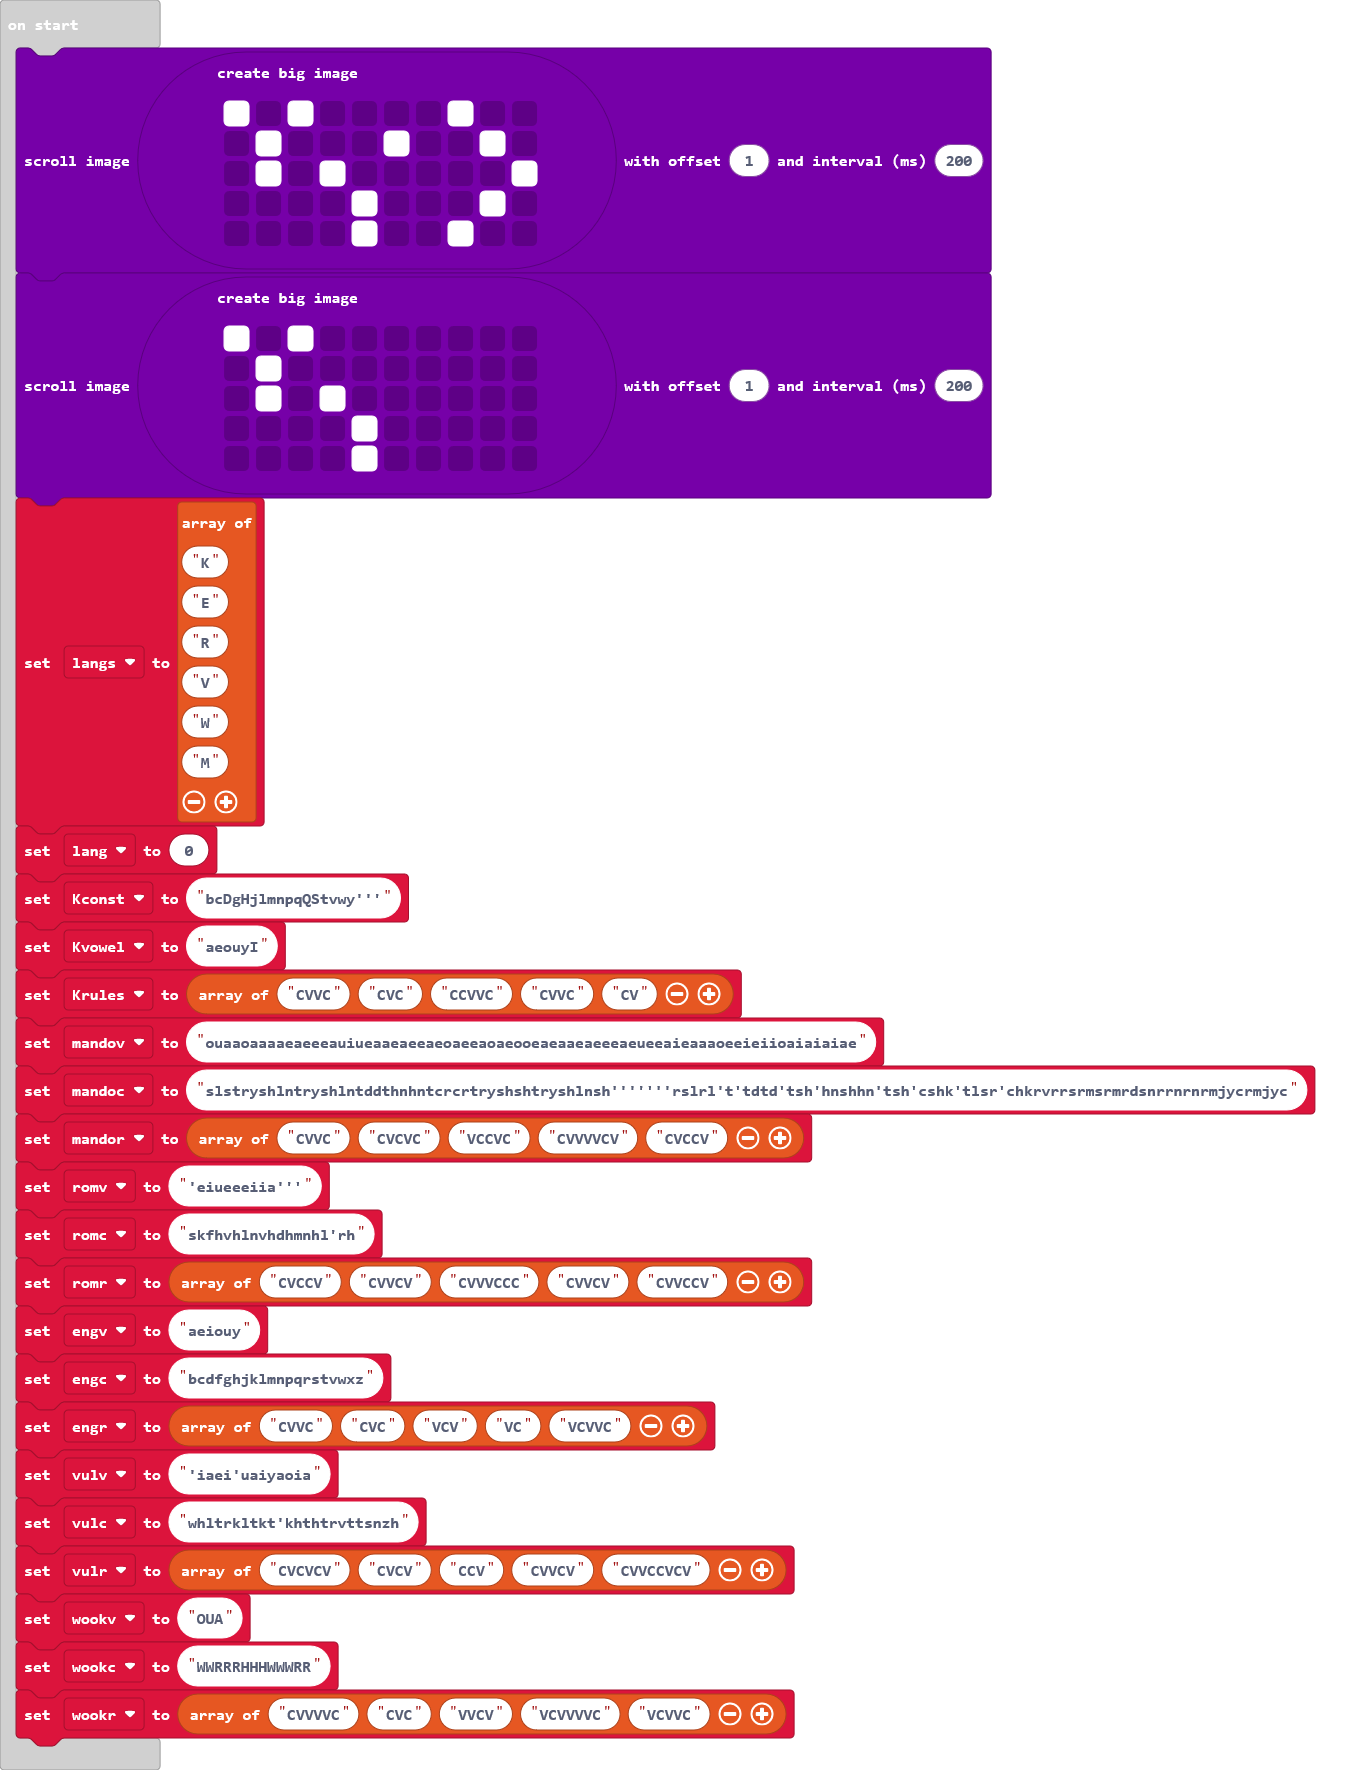
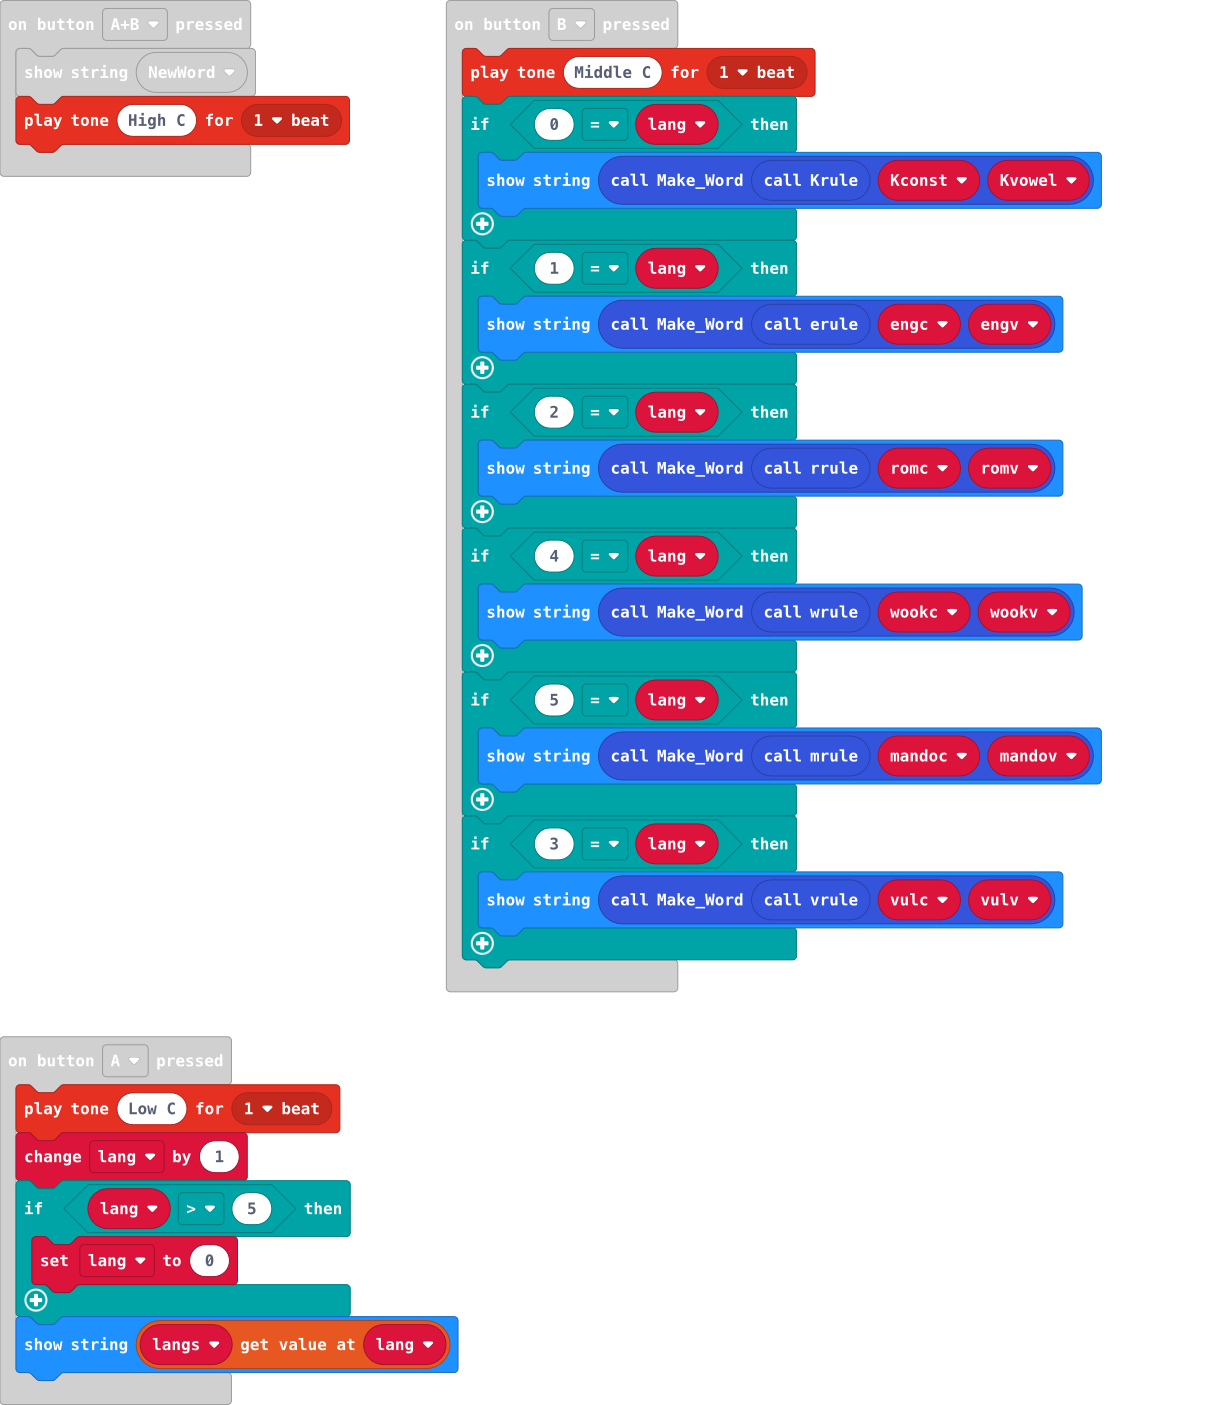
Update pxt.json, main.blocks, main.ts

diff --git a/main.ts b/main.ts
@@ -22,6 +22,7 @@ function consonant (text: string) {
     return text.charAt(randint(0, text.length - 1))
 }
 input.onButtonPressed(Button.A, function () {
+    music.playTone(131, music.beat(BeatFraction.Whole))
     lang += 1
     if (lang > 5) {
         lang = 0
@@ -36,8 +37,10 @@ function vrule () {
 }
 input.onButtonPressed(Button.AB, function () {
     basic.showString(NewWord)
+    music.playTone(523, music.beat(BeatFraction.Whole))
 })
 input.onButtonPressed(Button.B, function () {
+    music.playTone(262, music.beat(BeatFraction.Whole))
     if (0 == lang) {
         basic.showString("" + (Make_Word(Krule(), Kconst, Kvowel)))
     }
